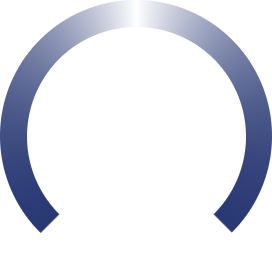
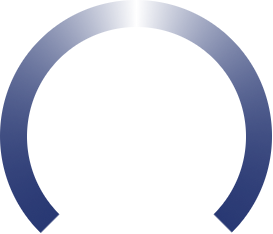
Make the dial widget more compact
The dial widget no longer requires the space which was previously left
empty at the bottom of the dial.

Changed region(s): [[0.5294, 0.0, 1.0, 1.0], [0.0, 0.0598, 0.4706, 1.0], [0.2647, 0.0299, 0.3235, 0.0598]]

diff --git a/dial.py b/dial.py
@@ -18,9 +18,11 @@ import math
 
 _NEEDLE_COLOR = gdk.Color(0.0, 0.0, 0.0)
 
+# The image for the dial, and associated constants
 _background_pixbuf = gdk.pixbuf_new_from_file('dial-background-trimmed.png')
 _MIN_WIDTH = 272
-_MIN_HEIGHT = 272
+_MIN_HEIGHT = 234
+_DIAL_CENTER_OFFSET = (0, 19)
 _ANGLE_MIN = math.pi / 4
 _ANGLE_MAX = 7 * math.pi / 4
 
@@ -136,14 +138,17 @@ class Dial(Widget):
         fontw, fonth = self._layout.get_pixel_size()
         cr = self.window.cairo_create()
 
-        cr.move_to((w - fontw)/2, 0.75 * h - fonth / 2)
+        # Draw the speed label
+        cr.move_to((w - fontw)/2, h - fonth)
         cr.update_layout(self._layout)
         cr.show_layout(self._layout)
 
-        points = [(0.0, 0.4), (0.07, 0.0), (0.0, -0.07), (-0.07, 0.0)]
+        points = [(0.0, 0.5), (0.07, 0.0), (0.0, -0.07), (-0.07, 0.0)]
+
+        offsetX, offsetY = _DIAL_CENTER_OFFSET
 
         m = cairo.Matrix()
-        m.translate(w / 2, h / 2)  # Centre the coordinates
+        m.translate(w / 2 + offsetX, h / 2 + offsetY)  # Centre the coordinates
         m.rotate(self.angle)
         cr.set_matrix(m)
         cr.set_source_color(_NEEDLE_COLOR)
